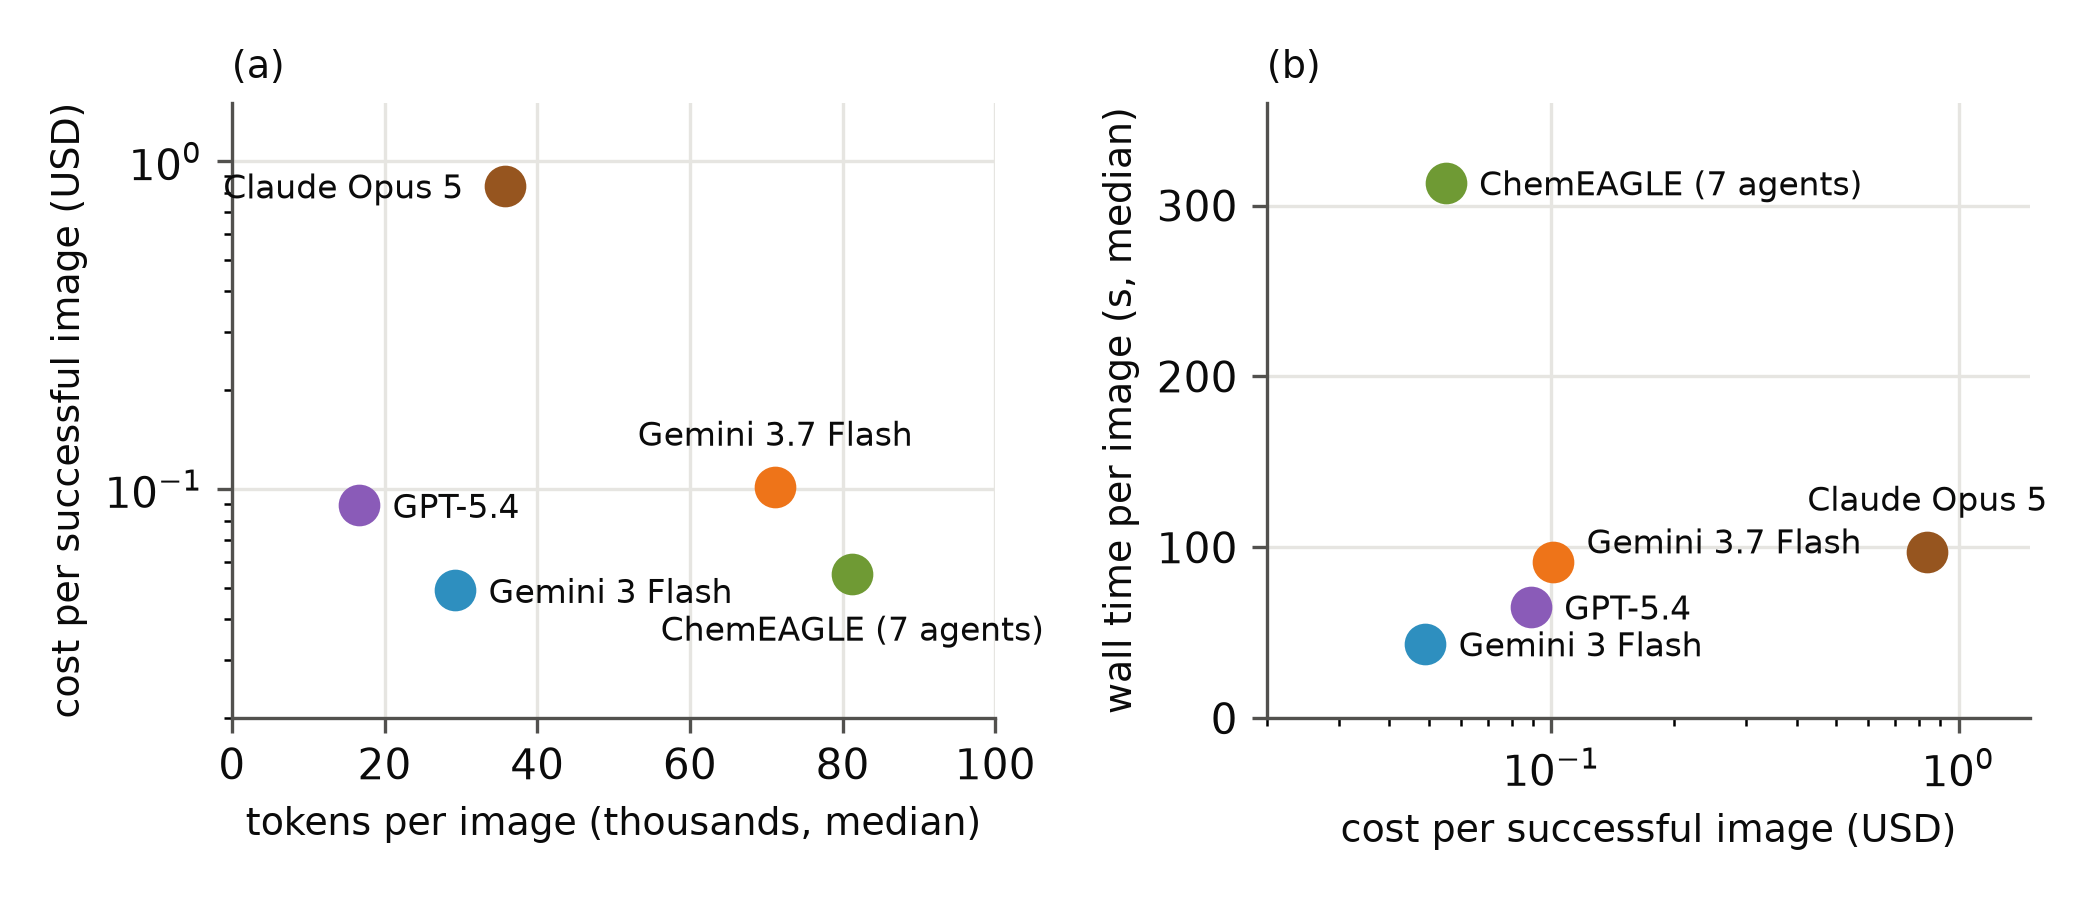
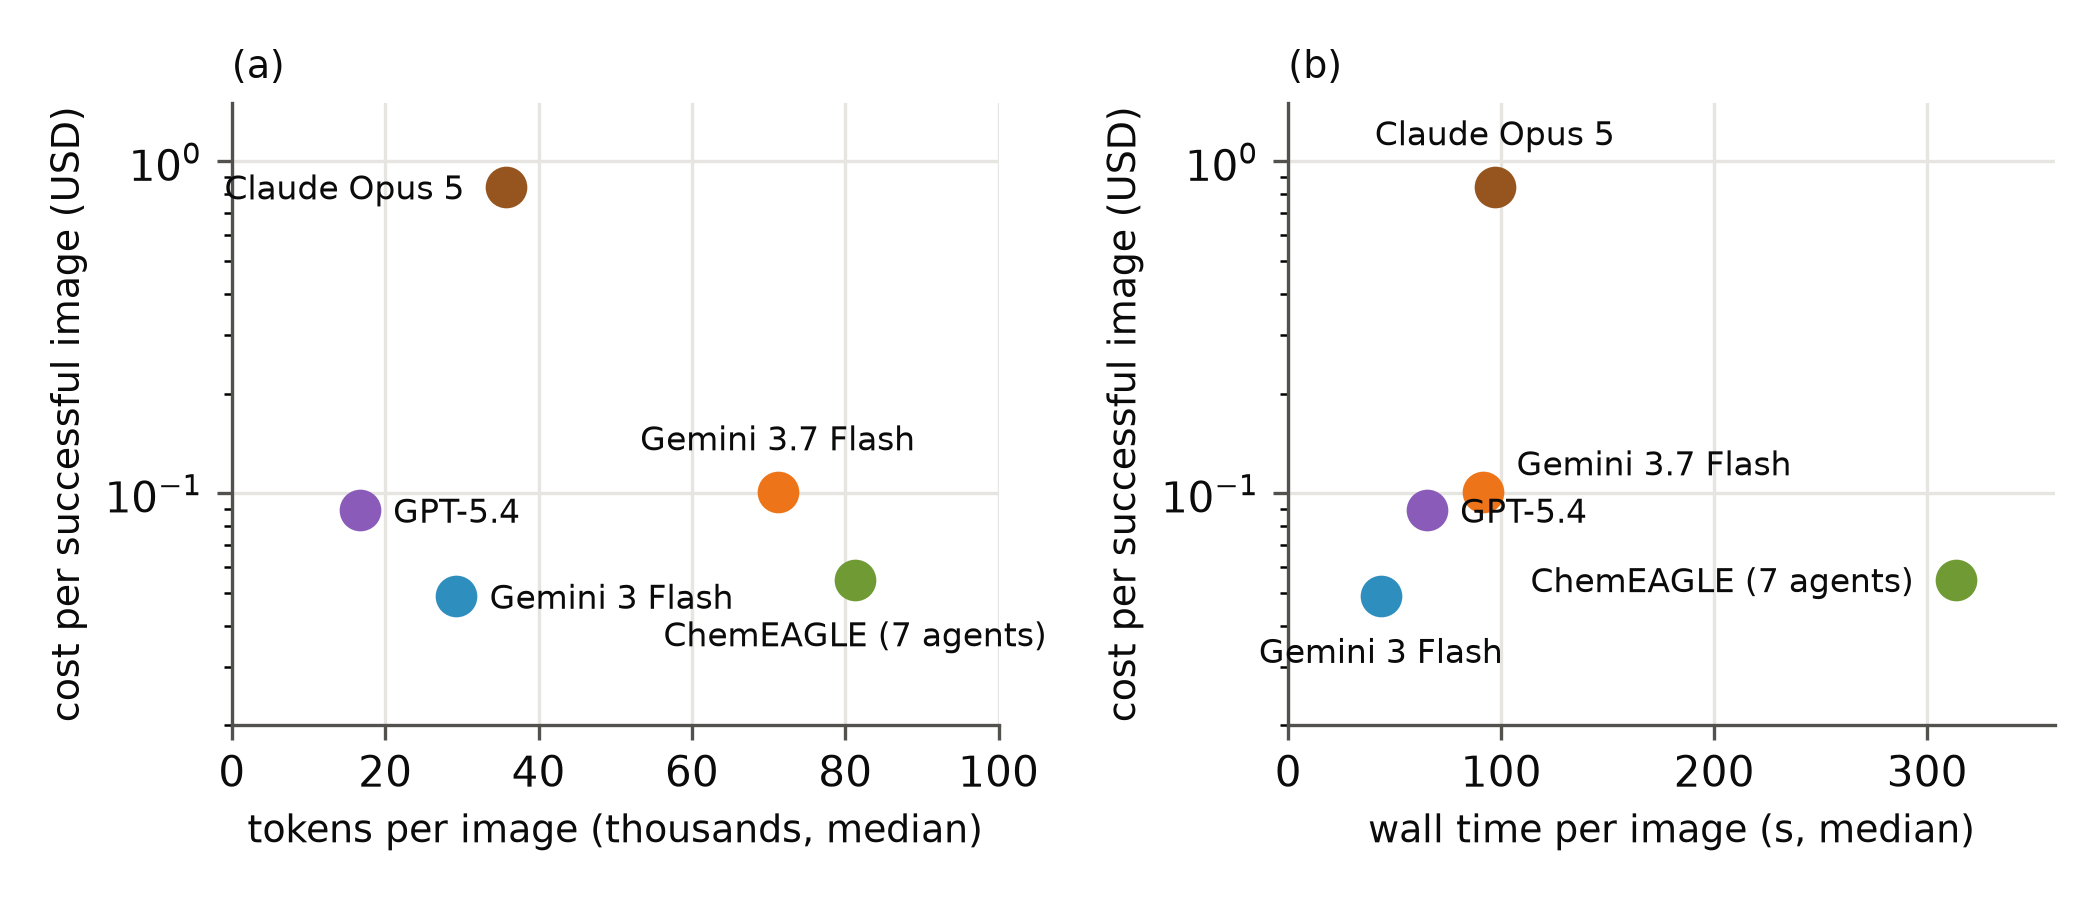
Flip time/cost panel: wall time on x-axis

diff --git a/approaches/single_agent_sdk/scripts/make_paper_figures.py b/approaches/single_agent_sdk/scripts/make_paper_figures.py
@@ -209,21 +209,21 @@ def fig_cost_tokens_time(d):
     ax1.set_xlabel("tokens per image (thousands, median)", fontsize=9, color=TEXT)
     ax1.set_ylabel("cost per successful image (USD)", fontsize=9, color=TEXT)
 
-    offs2 = {"opus5": (0, 10), "g37f": (8, 2), "g3f": (8, -3),
-             "gpt54": (8, -3), "chemeagle": (8, -3)}
+    offs2 = {"opus5": (0, 10), "g37f": (8, 4), "g3f": (0, -16),
+             "gpt54": (8, -3), "chemeagle": (-10, -3)}
     for k, m in d.items():
-        ax2.plot(m["cost"], m["med_time"], "o", color=m["color"],
+        ax2.plot(m["med_time"], m["cost"], "o", color=m["color"],
                  markersize=9, zorder=3)
         dx, dy = offs2.get(k, (8, 0))
-        ax2.annotate(m["name"], (m["cost"], m["med_time"]),
+        ax2.annotate(m["name"], (m["med_time"], m["cost"]),
                      textcoords="offset points", xytext=(dx, dy),
                      ha="left" if dx > 0 else ("center" if dx == 0 else "right"),
                      fontsize=8, color=TEXT)
-    ax2.set_xscale("log")
-    ax2.set_xlim(0.02, 1.5)
-    ax2.set_ylim(0, 360)
-    ax2.set_xlabel("cost per successful image (USD)", fontsize=9, color=TEXT)
-    ax2.set_ylabel("wall time per image (s, median)", fontsize=9, color=TEXT)
+    ax2.set_yscale("log")
+    ax2.set_xlim(0, 360)
+    ax2.set_ylim(0.02, 1.5)
+    ax2.set_xlabel("wall time per image (s, median)", fontsize=9, color=TEXT)
+    ax2.set_ylabel("cost per successful image (USD)", fontsize=9, color=TEXT)
 
     for ax, tag in ((ax1, "(a)"), (ax2, "(b)")):
         style_ax(ax)
